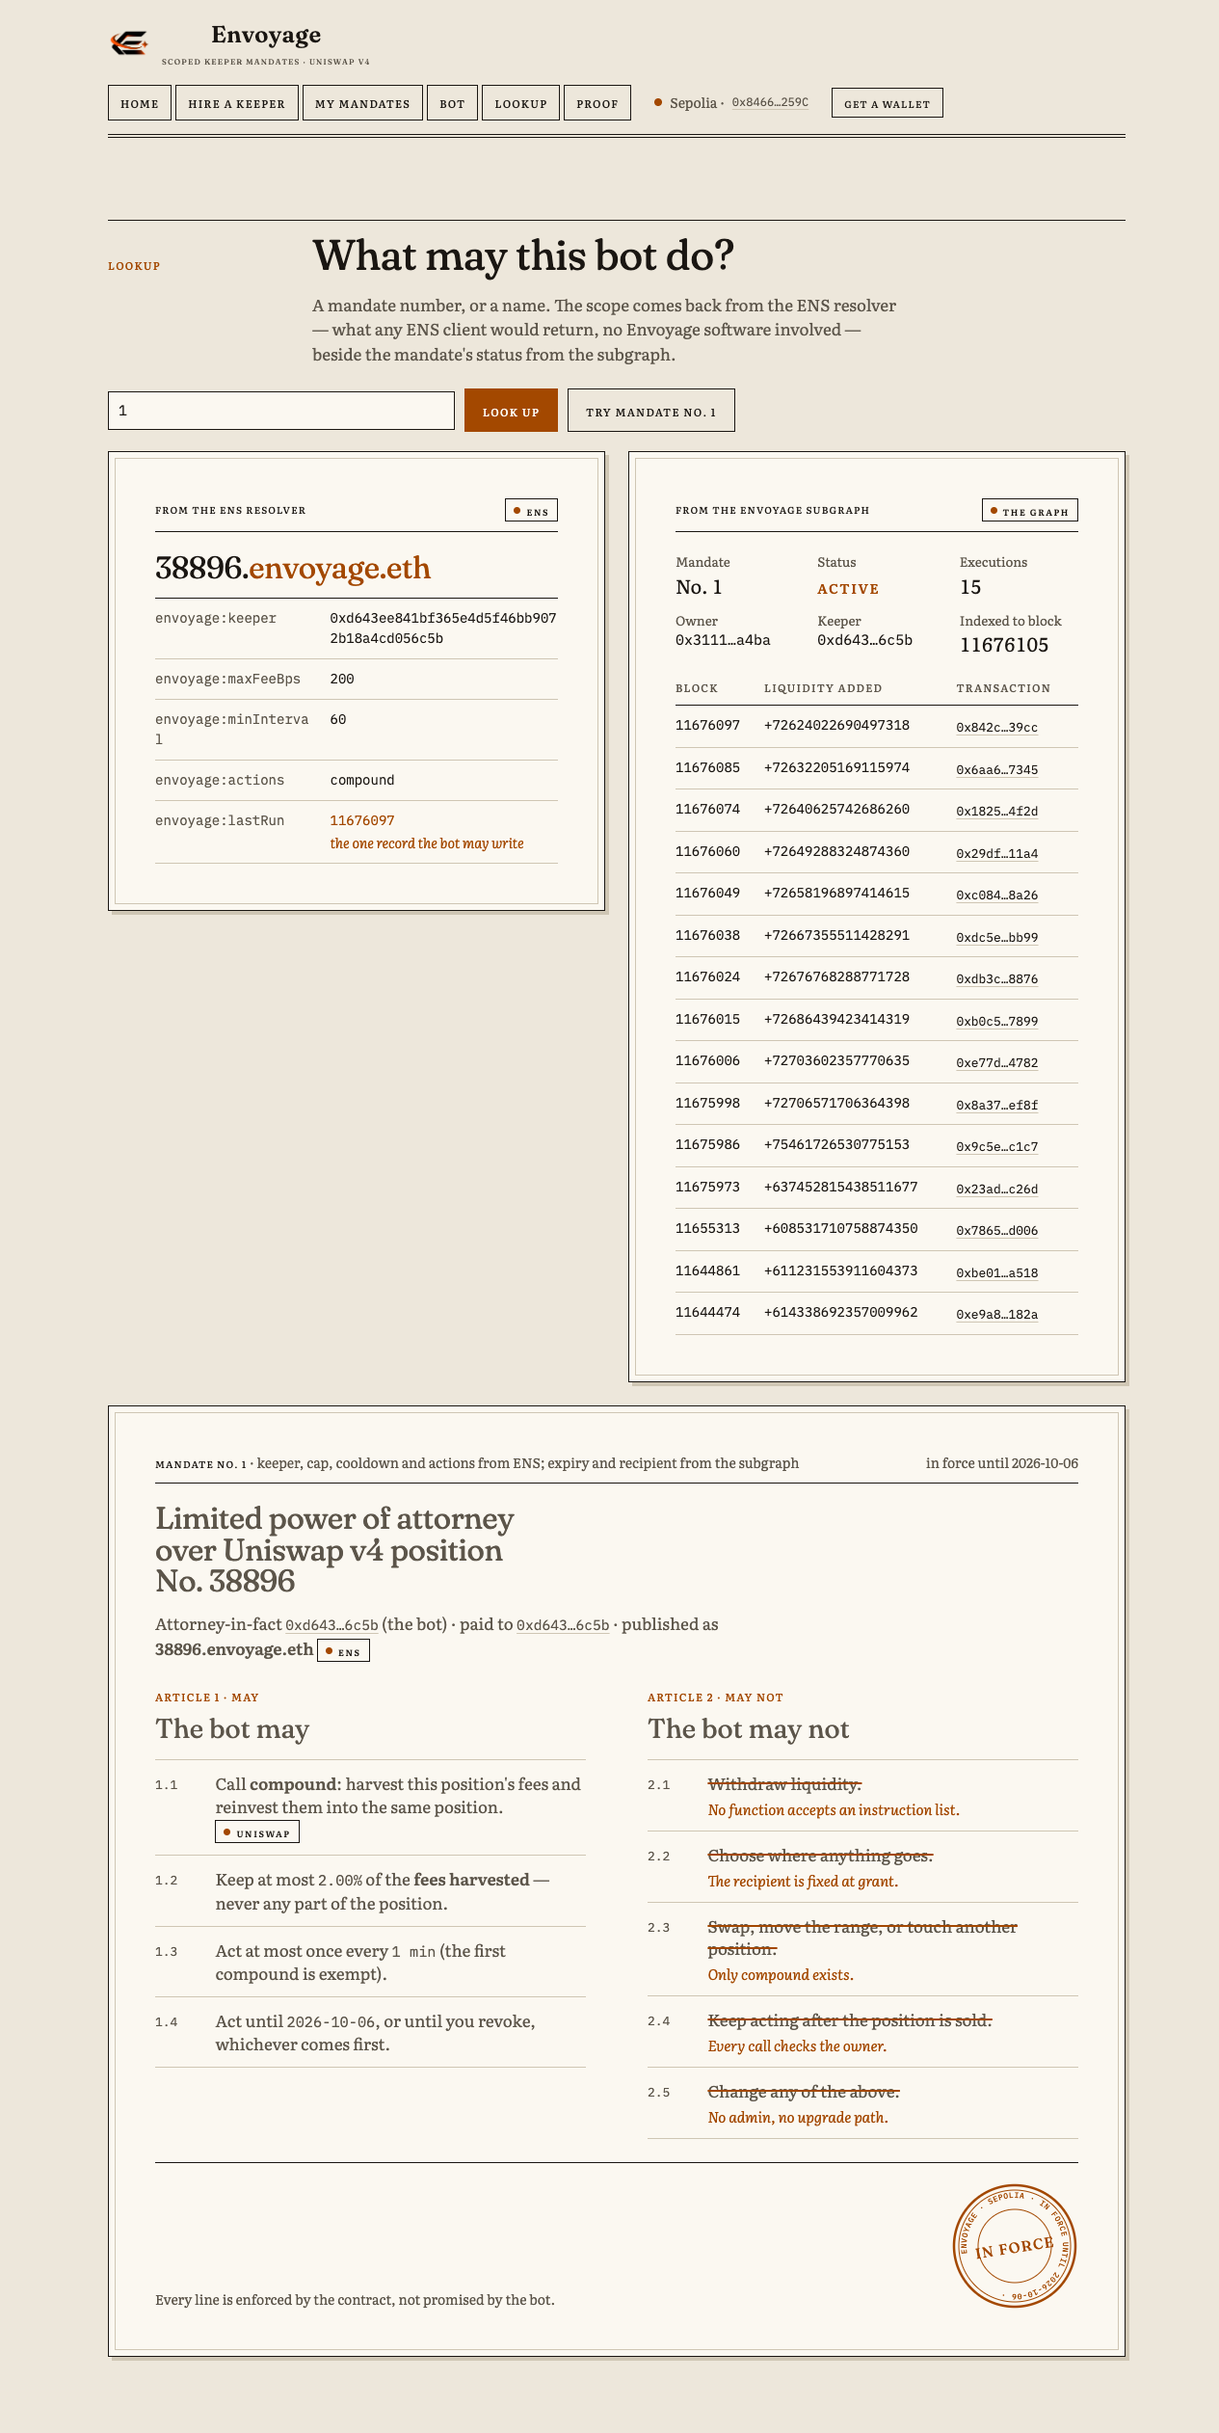
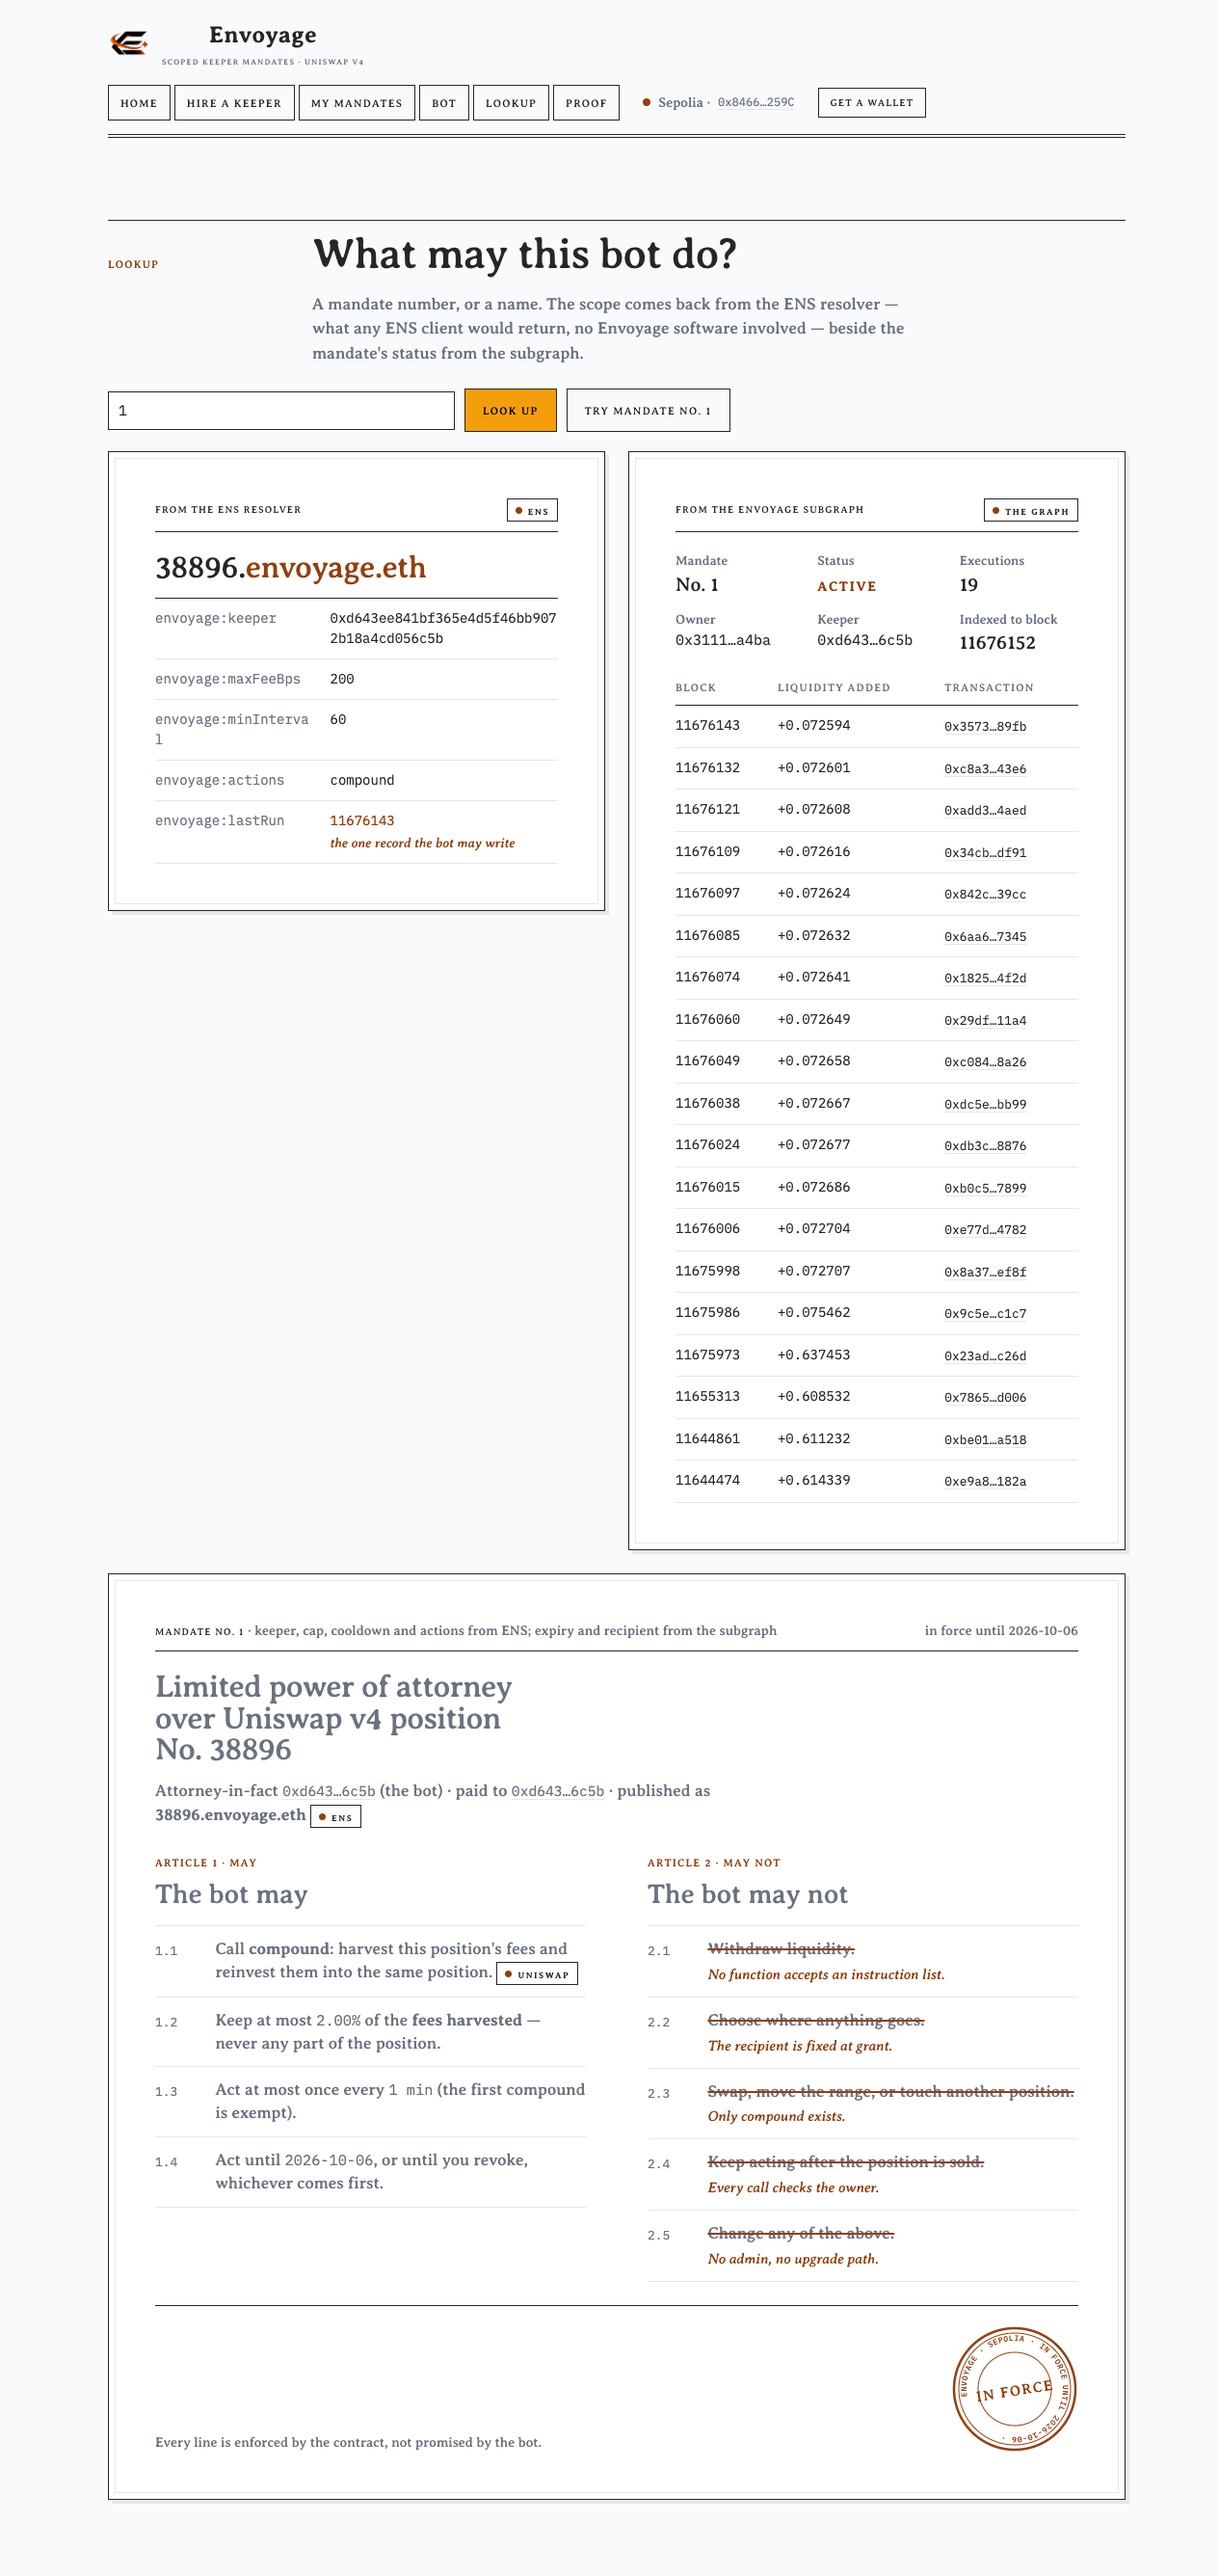
feat(web): U9 — Averia Serif Libre, Amber Minimal tokens in light and dark, shutter hero, contrast in both schemes
Type: Averia Serif Libre (300/400/700 + italics) through a Google Fonts
@import at the top of the stylesheet with a serif fallback stack, for text
and display alike; IBM Plex Mono kept for addresses and figures.

Theme: the 21st.dev "Amber Minimal" theme, fetched as CSS tokens, mapped
onto the instrument's ink / paper / desk / amber tokens and layered over the
existing stylesheet; a prefers-color-scheme block redefines the same tokens
for dark, and there is no toggle. The theme's primary amber (#f59e0b) is
2.15:1 on white, so it is a fill inside an ink edge (primary button, done
step marks) and never text; amber text, strikes and the seal use the theme's
accent-foreground. The logo's paper-recolour filter is dropped in dark.
scripts/contrast-pairs.sh now measures 23 pairs across both schemes; all pass.

Hero: 21st's hero-shutter-text is paid and Tailwind/shadcn-shaped, so within
the time-box it is re-implemented by hand: the sentence rendered once for
layout and assistive tech, then in six clip-path slats that slide into place
with a stagger; under prefers-reduced-motion the slats are not rendered at all
(verified: the headless default of reduced motion hides them). Focus rings on
every control, a skip link, and step completions announced via a polite live
region carry over from U2–U4; the lookup path was walked by keyboard.

Screens refreshed in the light scheme at 1280 and 375 for Home, Lookup,
Hire, My mandates and Proof, plus web-fold-dark.png for the dark scheme.

diff --git a/web/src/styles.css b/web/src/styles.css
@@ -1,41 +1,61 @@
+@import url("https://fonts.googleapis.com/css2?family=Averia+Serif+Libre:ital,wght@0,300;0,400;0,700;1,300;1,400;1,700&family=IBM+Plex+Mono:wght@400;500&display=swap");
 /* ─────────────────────────────────────────────────────────────────────────────
    Envoyage — "The Instrument"
    A mandate is a limited power of attorney. The page is the desk; the mandate is
    a paper instrument that sits on it, with articles, signatories and a seal. The
    rest of the content is filed as exhibits to that instrument.
 
-   Palette: ink, paper (two tones: the sheet and the desk it lies on) and ONE amber.
-   The amber is the colour of the seal, the strike-through of withheld powers, the
-   revoked stamp and the primary button — and nothing else is coloured. Rules are
-   ink at 22% and 12% over paper, written out as hex so the contrast script can read
-   them. Every text pair below is measured by scripts/contrast-pairs.sh (WCAG 2.x):
-     ink on paper 16.96 · ink on desk 14.61 · muted on paper 6.94 · muted on desk 5.98
-     amber on paper 5.68 · amber on desk 4.89 · paper on amber 5.68 · paper on ink 16.96
+   Palette: the 21st "Amber Minimal" theme (serafimcloud) mapped onto ink, paper
+   (sheet and desk) and ONE amber, for light and dark via prefers-color-scheme,
+   no toggle. The theme's primary amber is a fill inside an ink edge; amber text,
+   strikes and the seal use its accent-foreground. Every pair in both schemes is
+   measured by scripts/contrast-pairs.sh (23 pairs, all ≥ 4.5, graphics ≥ 3).
 
-   Type: Literata for text — a book face drawn for screens, with wedge serifs, a
-   large x-height and an italic that is a genuinely different drawing, so it keeps
-   its character at 16px where a neutral serif goes grey. Fraunces for display — a
-   soft, old-style "wonky" serif in the Cooper / Windsor tradition, the opposite
-   of a Didone: low contrast, heavy, ink-on-paper, and unlike Playfair or Cormorant
-   in every letter. IBM Plex Mono for addresses, hashes and figures.
+   Type: Averia Serif Libre (300/400/700 + italics) via Google Fonts @import with
+   a serif fallback stack, for text and display alike; IBM Plex Mono for
+   addresses, hashes and figures.
    ──────────────────────────────────────────────────────────────────────────── */
 :root {
   color-scheme: light;
 
-  --desk: #ede7db;
-  --paper: #fbf8f1;
-  --ink: #1a1612;
-  --ink-muted: #5c554a;
-  --rule: #cfc6b4;
-  --rule-soft: #e3dccc;
-  --amber: #a34800;
+  /* Amber Minimal (21st.dev, serafimcloud) mapped onto the instrument's tokens.
+     The theme's primary #f59e0b is a FILL only — it fails as text on white —
+     so amber text, strikes and the seal use its accent-foreground. */
+  --desk: #f9fafb;
+  --paper: #ffffff;
+  --ink: #262626;
+  --ink-muted: #6b7280;
+  --rule: #e5e7eb;
+  --rule-soft: #f3f4f6;
+  --amber: #92400e;
+  --amber-fill: #f59e0b;
+  --amber-fill-ink: #000000;
+  --amber-tint: #fffbeb;
 
-  --serif: "Literata", "Iowan Old Style", "Palatino Linotype", Georgia, serif;
-  --display: "Fraunces", "Iowan Old Style", "Palatino Linotype", Georgia, serif;
+  --serif: "Averia Serif Libre", "Iowan Old Style", "Palatino Linotype", Georgia, serif;
+  --display: "Averia Serif Libre", "Iowan Old Style", "Palatino Linotype", Georgia, serif;
   --mono: "IBM Plex Mono", ui-monospace, "SF Mono", Menlo, Consolas, monospace;
 
   --measure: 62ch;
   --sheet-pad: clamp(20px, 4vw, 48px);
+}
+@media (prefers-color-scheme: dark) {
+  :root {
+    color-scheme: dark;
+    --desk: #171717;
+    --paper: #262626;
+    --ink: #e5e5e5;
+    --ink-muted: #a3a3a3;
+    --rule: #404040;
+    --rule-soft: #333333;
+    --amber: #fbbf24;
+    --amber-fill: #f59e0b;
+    --amber-fill-ink: #000000;
+    --amber-tint: #3a2a0a;
+  }
+  .brand img {
+    filter: none;
+  }
 }
 
 *,
@@ -239,7 +259,6 @@ b {
 }
 .lede h1 {
   font-family: var(--display);
-  font-variation-settings: "SOFT" 60, "WONK" 1;
   margin: 0 0 24px;
   font-size: clamp(40px, 7.2vw, 84px);
   line-height: 0.98;
@@ -283,7 +302,6 @@ b {
 }
 .exhibit-head h2 {
   font-family: var(--display);
-  font-variation-settings: "SOFT" 60, "WONK" 1;
   margin: 0;
   font-size: clamp(28px, 3.6vw, 44px);
   font-weight: 400;
@@ -339,7 +357,6 @@ b {
 
 .instrument-title {
   font-family: var(--display);
-  font-variation-settings: "SOFT" 60, "WONK" 1;
   margin: 0;
   font-size: clamp(30px, 4.6vw, 54px);
   line-height: 1.02;
@@ -873,10 +890,12 @@ p.pending {
   opacity: 0.45;
   cursor: not-allowed;
 }
+/* The amber fill measures 2.15:1 against white, so the button's boundary is
+   drawn in ink; the fill is a colour inside an ink edge, never the edge itself. */
 .act-primary {
-  background: var(--amber);
-  border-color: var(--amber);
-  color: var(--paper);
+  background: var(--amber-fill);
+  border-color: var(--ink);
+  color: var(--amber-fill-ink);
 }
 /* the hostile press is not coloured red: it is an ordinary button drawn in the
    seal's ink, because what makes it hostile is what the approval permits, not how
@@ -903,7 +922,7 @@ p.pending {
   margin: 14px 0 0;
   padding: 10px 14px;
   border-left: 3px solid var(--ink);
-  background: var(--desk);
+  background: var(--amber-tint);
   font-size: 16px;
 }
 .outcome-bad {
@@ -948,7 +967,6 @@ p.pending {
 }
 .step-no {
   font-family: var(--display);
-  font-variation-settings: "SOFT" 60, "WONK" 1;
   font-size: clamp(40px, 5vw, 64px);
   line-height: 0.9;
   color: var(--amber);
@@ -965,7 +983,6 @@ p.pending {
 }
 .step-head h2 {
   font-family: var(--display);
-  font-variation-settings: "SOFT" 60, "WONK" 1;
   margin: 0;
   font-size: clamp(28px, 3.6vw, 44px);
   font-weight: 500;
@@ -1031,7 +1048,6 @@ p.pending {
 }
 .duel-side h3 {
   font-family: var(--display);
-  font-variation-settings: "SOFT" 60, "WONK" 1;
   margin: 0;
   font-size: clamp(24px, 2.8vw, 32px);
   font-weight: 500;
@@ -1314,9 +1330,9 @@ p.pending {
 }
 .step-row.done .step-mark,
 .step-row.skipped .step-mark {
-  background: var(--amber);
-  border-color: var(--amber);
-  color: var(--paper);
+  background: var(--amber-fill);
+  border-color: var(--ink);
+  color: var(--amber-fill-ink);
 }
 .step-row.running .step-mark {
   border-style: dashed;
@@ -1546,4 +1562,64 @@ input[type="radio"]:focus-visible {
   font-family: var(--display);
   font-size: 18px;
   fill: var(--ink);
+}
+
+/* ── presentation pass (U9) ─────────────────────────────────────────────── */
+.shutter {
+  position: relative;
+}
+.shutter-plain {
+  display: block;
+}
+.shutter-slats {
+  position: absolute;
+  inset: 0;
+  pointer-events: none;
+}
+.shutter-slat {
+  position: absolute;
+  inset: 0;
+  display: block;
+  background: var(--desk);
+  transform: translateX(var(--from, 0));
+  opacity: 0;
+}
+@media (prefers-reduced-motion: no-preference) {
+  .shutter:has(.shutter-slats) .shutter-plain {
+    animation: shutter-plain-in 1ms linear 720ms both;
+  }
+  .shutter-slat {
+    animation: shutter-in 520ms cubic-bezier(0.2, 0.8, 0.2, 1) both;
+  }
+  @keyframes shutter-in {
+    0% {
+      opacity: 1;
+      transform: translateX(var(--from, 0));
+    }
+    85% {
+      opacity: 1;
+      transform: translateX(0);
+    }
+    100% {
+      opacity: 0;
+      transform: translateX(0);
+    }
+  }
+  @keyframes shutter-plain-in {
+    from {
+      opacity: 0;
+    }
+    to {
+      opacity: 1;
+    }
+  }
+}
+@media (prefers-reduced-motion: reduce) {
+  .shutter-slats {
+    display: none;
+  }
+  .tab,
+  .act {
+    transition: none;
+  }
 }

diff --git a/web/src/ui/ShutterHero.tsx b/web/src/ui/ShutterHero.tsx
@@ -1,0 +1,34 @@
+import type {ReactNode} from "react";
+
+/// A hand-written stand-in for 21st's "hero-shutter-text": the sentence is
+/// rendered once for layout and screen readers, then again in N horizontal
+/// slats (clip-path bands) that slide into place with a stagger — the shutter.
+/// Under prefers-reduced-motion the slats are not animated and the plain copy
+/// is all that shows. The visible copies are aria-hidden.
+export function ShutterHero({children, slats = 6, id}: {children: ReactNode; slats?: number; id?: string}) {
+  const bands = Array.from({length: slats}, (_, i) => i);
+  return (
+    <h1 id={id} className="shutter">
+      <span className="shutter-plain">{children}</span>
+      <span className="shutter-slats" aria-hidden="true">
+        {bands.map((i) => {
+          const top = (i / slats) * 100;
+          const bottom = 100 - ((i + 1) / slats) * 100;
+          return (
+            <span
+              key={i}
+              className="shutter-slat"
+              style={{
+                clipPath: `inset(${top}% 0 ${bottom}% 0)`,
+                animationDelay: `${i * 70}ms`,
+                ["--from" as string]: i % 2 ? "6%" : "-6%"
+              }}
+            >
+              {children}
+            </span>
+          );
+        })}
+      </span>
+    </h1>
+  );
+}

diff --git a/web/src/ui/Home.tsx b/web/src/ui/Home.tsx
@@ -1,4 +1,5 @@
 import {FitDiagram} from "./FitDiagram";
+import {ShutterHero} from "./ShutterHero";
 import {Overview} from "./Overview";
 import {Sponsor} from "./kit";
 
@@ -7,9 +8,9 @@ export function Home({go}: {go: (r: string) => void}) {
   return (
     <>
       <section className="lede" aria-labelledby="home-h">
-        <h1 id="home-h">
+        <ShutterHero id="home-h">
           A <em>permission layer</em> for Uniswap v4 automation.
-        </h1>
+        </ShutterHero>
         <p>
           A bot that can grow your position and do nothing else with it. Today the only way to let a bot compound your fees is an approval that says which position it may touch and nothing about what it may
           do. Envoyage replaces it with a <strong>mandate</strong>: a limited power of attorney whose terms are enforced by the contract, published

diff --git a/web/index.html b/web/index.html
@@ -5,7 +5,6 @@
     <meta name="viewport" content="width=device-width, initial-scale=1.0" />
     <link rel="preconnect" href="https://fonts.googleapis.com" />
     <link rel="preconnect" href="https://fonts.gstatic.com" crossorigin />
-    <link href="https://fonts.googleapis.com/css2?family=Fraunces:ital,opsz,wght,SOFT,WONK@0,9..144,300..900,0..100,0..1;1,9..144,300..900,0..100,0..1&family=Literata:ital,opsz,wght@0,7..72,400..700;1,7..72,400..700&family=IBM+Plex+Mono:wght@400;500&display=swap" rel="stylesheet" />
     <title>Envoyage — scoped keeper permissions for Uniswap v4</title>
   </head>
   <body>
